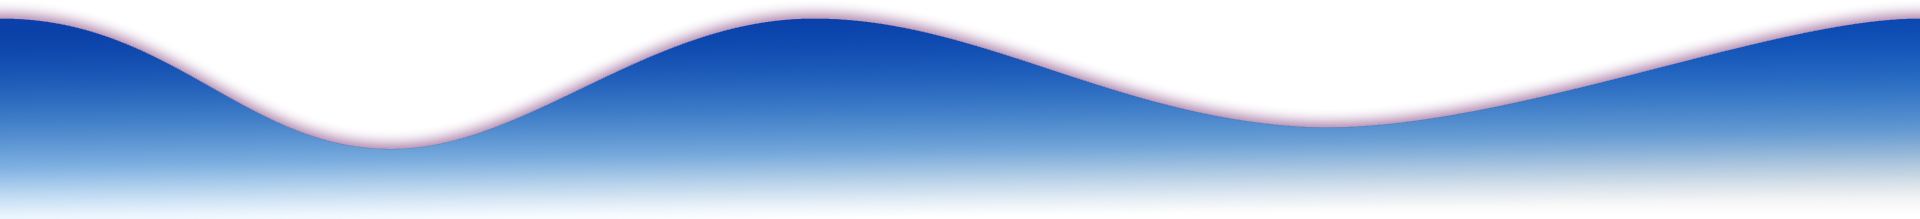
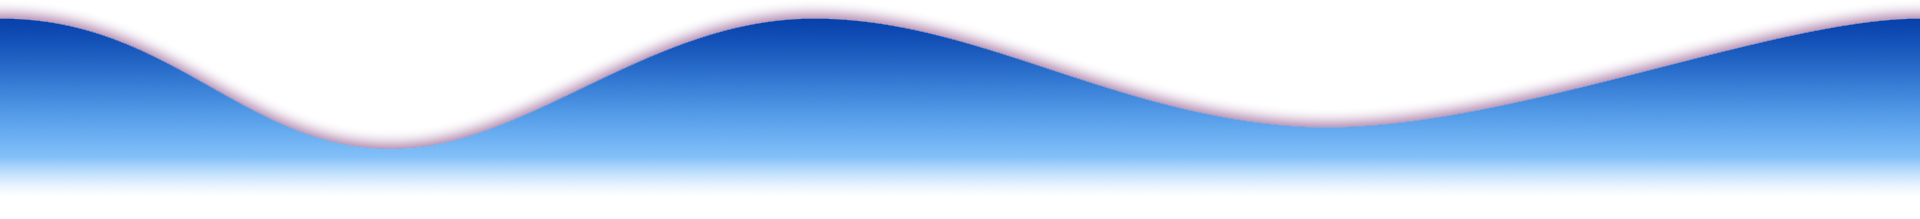
waves

diff --git a/style.css b/style.css
@@ -106,8 +106,8 @@ body {
     animation: swingdown;
     -webkit-animation: swingdown 1s ease;
 }
-.registrate{
-    background:tomato;
+#menu .registrate{
+    background: rgba(0,58,167,.7);
 }
 /* ----------Animacion Navbar----------- */
 @keyframes swingdown{
@@ -171,13 +171,13 @@ body {
     display: none;
 }
 
-/* section::before{
+/* #nube::before{
     content: '';
     position: absolute;
-    bottom: 0;
+    top: 0;
     width: 100%;
     height: 50px;
-    background: linear-gradient(to top, #fdfdfd,transparent);
+    background: linear-gradient(to top, #991616,transparent);
     z-index: 100;
 } */
 .parallax-img{
@@ -293,7 +293,8 @@ body {
    -webkit-filter: drop-shadow( 5px -5px 2px rgba(0, 0, 0, 0.3));
 }
 .nube{
-    background: linear-gradient(180deg, #FFFFFF 45.31%, #6DD9FB 78.12%);
+    /* background: linear-gradient(180deg, #FFFFFF 45.31%, #6DD9FB 78.12%); */
+    background: linear-gradient(0deg, rgba(0,58,167,1) 25%, rgba(78,133,199,1) 91%);
     position: relative;
     height: auto;
     width: 100vw;
@@ -354,6 +355,8 @@ body {
     
 }
 .detalles{
+    grid-column: 2/3;
+    grid-row: 4/6;
     display: flex;
     flex-direction: column;
     align-items: center;
@@ -416,7 +419,8 @@ body {
 .sombra {
     width:100%;
     height: 5%;
-    background: linear-gradient(to bottom, rgba(54, 54, 54, 0.3),rgb(114, 114, 114));
+    /* background: linear-gradient(to bottom, rgba(54, 54, 54, 0.3),rgb(114, 114, 114)); */
+    background: linear-gradient(to bottom, rgba(54, 54, 54, 0.3),rgba(10, 10, 10, 0.658));
     z-index: 1;
     filter: blur(0.5rem);
     border-radius: 50%;
@@ -452,18 +456,18 @@ body {
     padding: 1rem 2rem;
     color:white;
     letter-spacing: 2px;
-    border-radius:10px;
-    font-family: ;
-    -webkit-border-radius:10px;
-    -moz-border-radius:10px;
-    -ms-border-radius:10px;
-    -o-border-radius:10px;
+    border-radius: 50px;
+    -webkit-border-radius:50px;
+    -moz-border-radius:50px;
+    -ms-border-radius:50px;
+    -o-border-radius:50px;
 }
 
 /* ==============BOSQUE======================= */
 
 .bosque{
-    background:#6DD9FB ;
+    background: rgba(0,58,167,1); 
+    /* background:#6DD9FB ; */
 }
 .container-bosque{
     position: relative;
@@ -514,4 +518,33 @@ body {
     width: 300px;
     height: 300px;
     object-fit: fill;
+}
+
+
+
+/* ================ MediaQuery ================================ */
+@media only screen and  (max-width:450px){
+
+  .grid{
+    background: hotpink;
+    height: 1000px;
+    grid-template-columns: 1rem 1fr 1rem;
+    grid-template-rows: 1rem 2rem 4rem 2fr 1fr 1rem; 
+  }  
+  .container_cartel_cuentacuentos{
+    grid-column: 2/3; 
+    grid-row: 2/3;
+   }
+   .detalles{
+    grid-column: 2/3;
+    grid-row: 3/4;
+   }
+   .container-libro{
+    grid-column: 2/3;
+    grid-row: 5/7;
+   }
+   .btn{
+    grid-column: 2/3;
+    grid-row: 4/5;
+   }
 }
